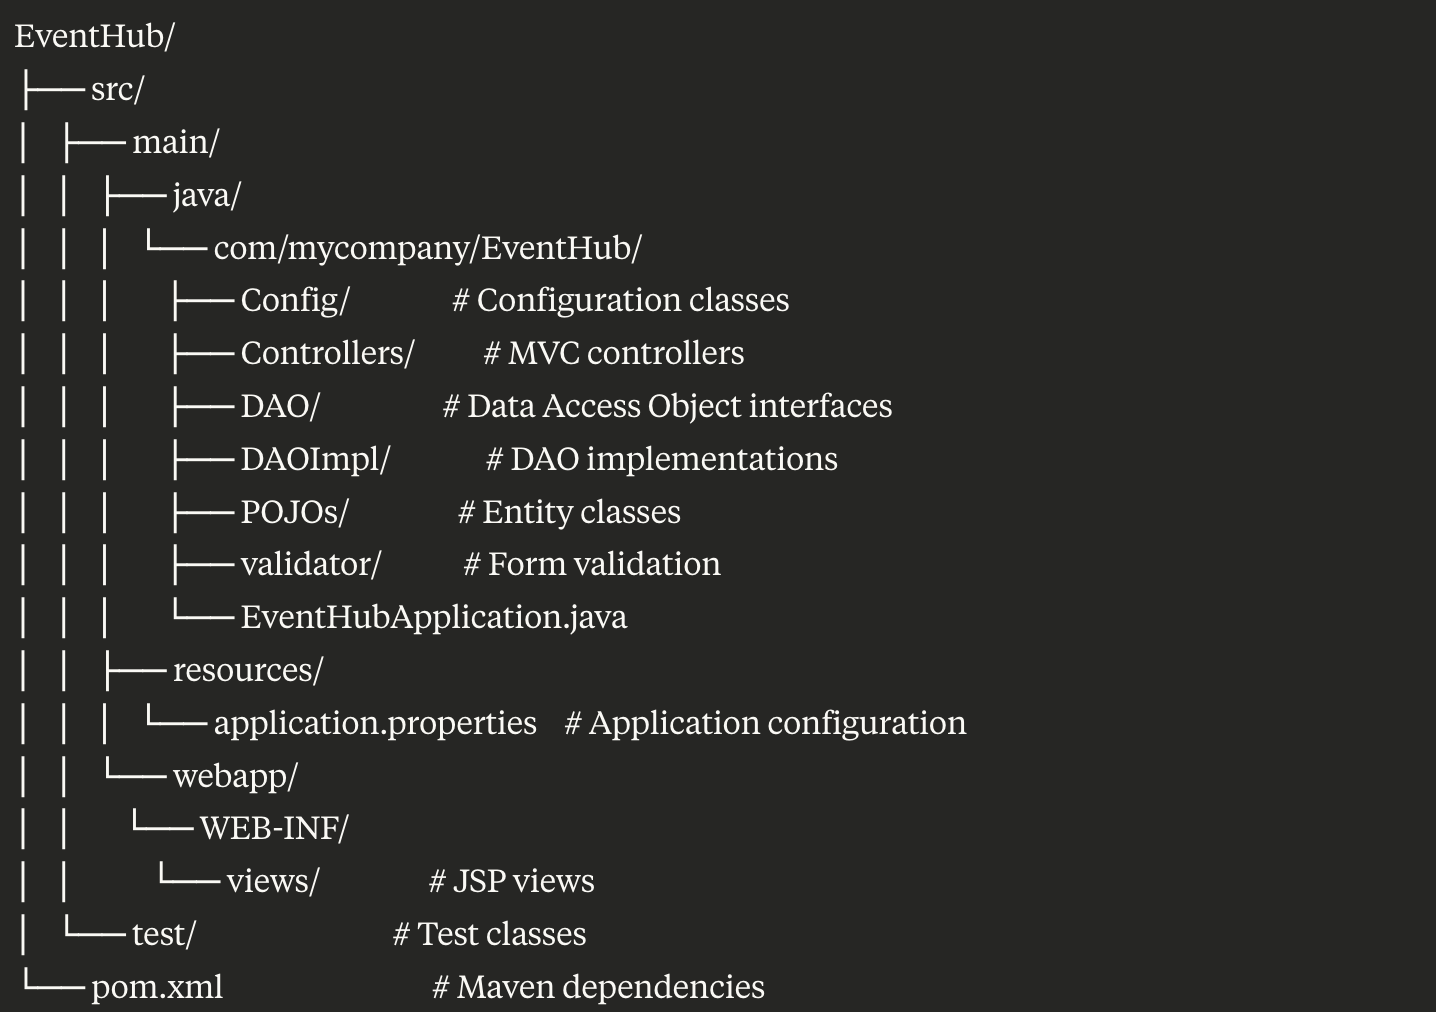
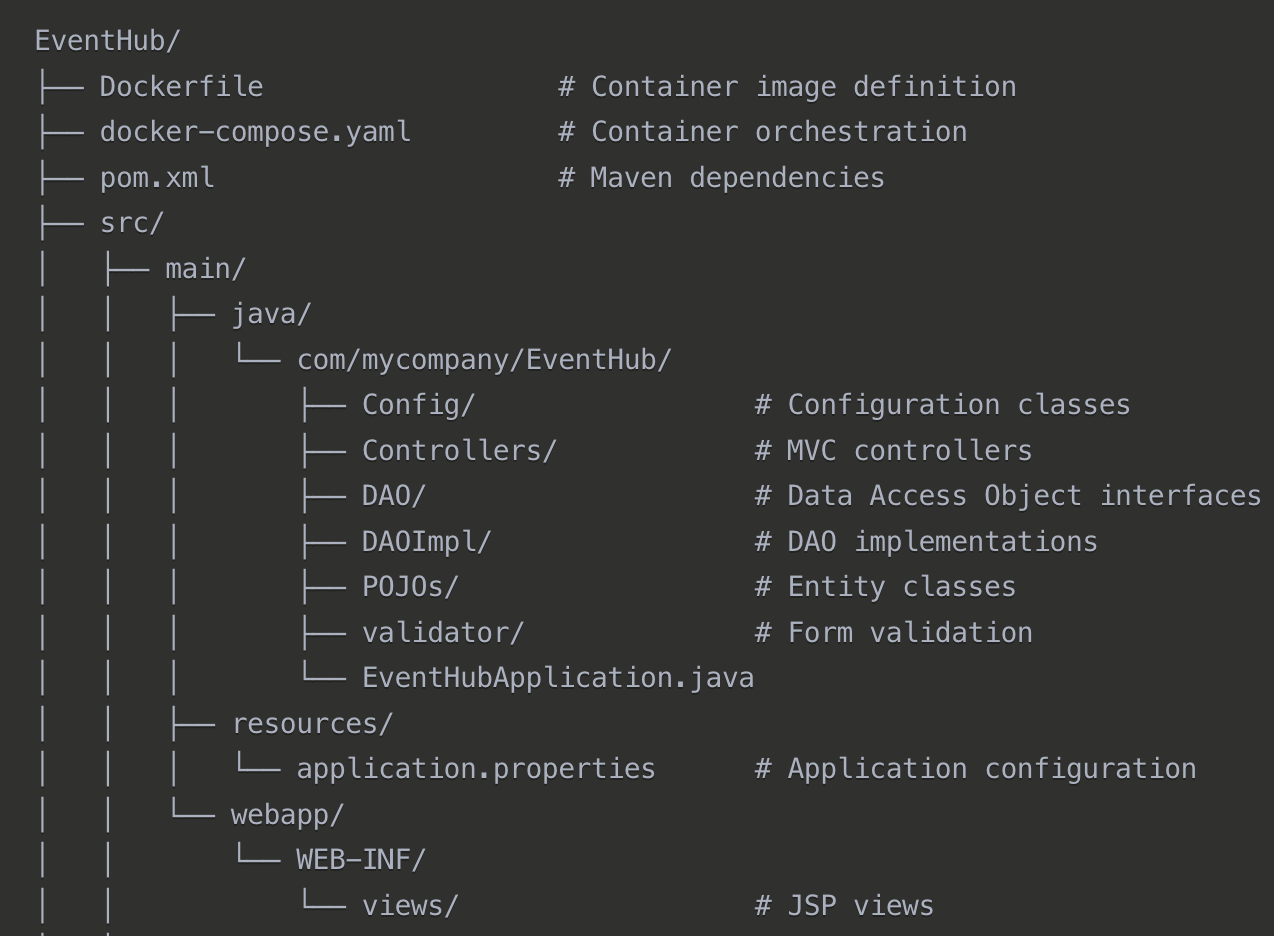
update readme amd images

diff --git a/README.md b/README.md
@@ -1,19 +1,21 @@
-# EventHub - Event Management System
+# EventHub - Containerized Event Management System
 
 ## Table of Contents
 - [Project Overview](#project-overview)
 - [Features](#features)
 - [Technology Stack](#technology-stack)
+- [Deployment Architecture](#deployment-architecture)
 - [Screenshots](#screenshots)
 - [Project Structure](#project-structure)
-- [Hibernate Integration](#hibernate-integration)
+- [ORM Implementation](#orm-implementation)
 - [Getting Started](#getting-started)
 - [Implementation Highlights](#implementation-highlights)
+- [DevOps Practices](#devops-practices)
 - [Future Enhancements](#future-enhancements)
 
 ## Project Overview
 
-EventHub is a comprehensive event management platform developed as a course project. This system allows organizations to create events, users to register for these events, and administrators to maintain the overall platform. Built on the Spring Boot framework with Hibernate ORM, EventHub demonstrates the implementation of a robust web application using Java technologies.
+EventHub is a comprehensive event management platform developed as a course project and enhanced with industry-standard containerization practices. This system allows organizations to create events, users to register for these events, and administrators to maintain the overall platform. Built on the Spring Boot framework with Hibernate ORM, EventHub demonstrates the implementation of a robust, containerized web application using modern Java technologies and DevOps principles.
 
 ## Features
 
@@ -44,17 +46,99 @@ EventHub implements a multi-role authorization system with three types of users:
 - **Registration System**: Customers can register for events with capacity limits
 - **Search & Filter**: Find events by keyword or category
 - **Responsive UI**: Bootstrap-based interface that works across devices
-- **Data Persistence**: Hibernate ORM with SQL Server database
+- **Data Persistence**: Hibernate ORM with MySQL database
 - **Pagination**: Efficient display of event lists with page navigation
+- **Containerization**: Full Docker support for consistent deployment across environments
 
 ## Technology Stack
 
-- **Backend**: Java with Spring Boot framework
+- **Backend**: Java 21 with Spring Boot framework
 - **Frontend**: JSP, HTML, CSS, JavaScript
-- **Database**: Microsoft SQL Server
+- **Database**: MySQL 8.0.36
 - **ORM**: Hibernate
 - **Build Tool**: Maven
+- **Containerization**: Docker & Docker Compose
 - **Design Pattern**: DAO pattern for data access
+- **Time Management**: Configured timezone handling for global deployment
+
+## Deployment Architecture
+
+EventHub utilizes a modern containerized architecture, allowing for seamless deployment across different environments.
+
+```
+┌─────────────────────────────────────┐
+│          Docker Environment         │
+│                                     │
+│  ┌─────────────┐     ┌───────────┐  │
+│  │             │     │           │  │
+│  │  Spring Boot│     │  MySQL    │  │
+│  │  Application│─────│  Database │  │
+│  │  Container  │     │  Container│  │
+│  │             │     │           │  │
+│  └─────────────┘     └───────────┘  │
+│                                     │
+└─────────────────────────────────────┘
+```
+
+### Docker Configuration
+
+The project includes a complete Docker setup for streamlined deployment:
+
+#### Dockerfile
+```dockerfile
+FROM eclipse-temurin:21-jre
+
+WORKDIR /app
+
+COPY target/EventHub-0.0.1-SNAPSHOT.war app.war
+
+ENV TZ=America/New_York
+RUN ln -snf /usr/share/zoneinfo/$TZ /etc/localtime && echo $TZ > /etc/timezone
+
+EXPOSE 8080
+
+ENTRYPOINT ["java", "-jar", "app.war"]
+```
+
+#### Docker Compose
+```yaml
+version: '3.8'
+
+services:
+  app:
+    build: .
+    ports:
+      - "8080:8080"
+    environment:
+      - SPRING_DATASOURCE_URL=jdbc:mysql://db:3306/eventhub?createDatabaseIfNotExist=true&useSSL=false&allowPublicKeyRetrieval=true&serverTimezone=UTC
+      - SPRING_DATASOURCE_USERNAME=root
+      - SPRING_DATASOURCE_PASSWORD=Aa@8573547512
+      - SPRING_DATASOURCE_DRIVER_CLASS_NAME=com.mysql.cj.jdbc.Driver
+      - SPRING_JPA_PROPERTIES_HIBERNATE_DIALECT=org.hibernate.dialect.MySQL8Dialect
+    depends_on:
+      - db
+    networks:
+      - eventhub-network
+
+  db:
+    image: mysql:8.0.36
+    environment:
+      - MYSQL_ROOT_PASSWORD=Aa@8573547512
+      - MYSQL_DATABASE=eventhub
+    ports:
+      - "3306:3306"
+    volumes:
+      - mysql-data:/var/lib/mysql
+    networks:
+      - eventhub-network
+
+networks:
+  eventhub-network:
+    driver: bridge
+
+volumes:
+  mysql-data:
+```
 
 ## Screenshots
 
@@ -188,27 +272,28 @@ The project is organized as follows:
 
 5. **Configuration**: System setup and initialization
    - DataInitializer for sample data generation
+   - Environment-specific property configurations
 
 This structure provides clear separation of concerns, making the codebase maintainable and extensible.
 
-## Hibernate Integration
+## ORM Implementation
 
-EventHub utilizes Hibernate ORM for database operations, providing an abstraction layer between the application and the database. This integration offers several advantages:
+EventHub utilizes Hibernate ORM for database operations, providing an abstraction layer between the application and the database. This implementation supports database portability as demonstrated by the migration from SQL Server to MySQL.
 
 ### Configuration
 
-The application connects to Microsoft SQL Server through Hibernate, configured in `application.properties`:
+The application connects to MySQL through Hibernate, configured in `application.properties`:
 
 ```properties
 # DataSource Configuration
-spring.datasource.url=jdbc:sqlserver://localhost:1433;databaseName=EventHub;encrypt=true;trustServerCertificate=true
-spring.datasource.username=sa
+spring.datasource.url=jdbc:mysql://localhost:3306/eventhub?createDatabaseIfNotExist=true&useSSL=false&allowPublicKeyRetrieval=true&serverTimezone=UTC
+spring.datasource.username=root
 spring.datasource.password=******
-spring.datasource.driver-class-name=com.microsoft.sqlserver.jdbc.SQLServerDriver
+spring.datasource.driver-class-name=com.mysql.cj.jdbc.Driver
 
 # Hibernate Configuration
-spring.jpa.properties.hibernate.dialect=org.hibernate.dialect.SQLServerDialect
-spring.jpa.hibernate.ddl-auto=update
+spring.jpa.properties.hibernate.dialect=org.hibernate.dialect.MySQL8Dialect
+spring.jpa.hibernate.ddl-auto=create-drop
 spring.jpa.hibernate.naming.physical-strategy=org.hibernate.boot.model.naming.PhysicalNamingStrategyStandardImpl
 spring.jpa.show-sql=true
 spring.jpa.properties.hibernate.format_sql=true
@@ -218,11 +303,26 @@ spring.jpa.properties.hibernate.format_sql=true
 
 ### Prerequisites
 
-- JDK 17 or higher
-- Maven
-- Microsoft SQL Server
+- Docker and Docker Compose
+- JDK 21 or higher (for development only)
+- Maven (for development only)
 
 ### Setup Instructions
+
+#### With Docker (Recommended)
+
+1. Clone the repository
+2. Build the application with Maven:
+   ```
+   mvn clean package
+   ```
+3. Launch the containerized application:
+   ```
+   docker-compose up -d
+   ```
+4. Access the application at `http://localhost:8080/eventhub`
+
+#### For Development
 
 1. Clone the repository
 2. Configure database connection in `application.properties`
@@ -257,10 +357,10 @@ This approach offers better maintainability and testability.
 // Example of DAO interface
 public interface EventDAO {
     Event save(Event event);
-    Optional findById(Long id);
-    List findAll();
-    List findByCategory(String category);
-    List searchByKeyword(String keyword);
+    Optional<Event> findById(Long id);
+    List<Event> findAll();
+    List<Event> findByCategory(String category);
+    List<Event> searchByKeyword(String keyword);
     // Other methods...
 }
 ```
@@ -296,9 +396,32 @@ The system demonstrates various JPA relationship mappings:
     joinColumns = @JoinColumn(name = "customer_id"),
     inverseJoinColumns = @JoinColumn(name = "event_id")
 )
-private Set registeredEvents = new HashSet<>();
+private Set<Event> registeredEvents = new HashSet<>();
 ```
 
+## DevOps Practices
+
+This project demonstrates several DevOps principles and best practices:
+
+### Containerization
+
+- **Platform Independence**: Application runs consistently across any environment with Docker support
+- **Isolation**: System dependencies are encapsulated within containers
+- **Resource Management**: Container-specific resource allocation and management
+- **Easy Deployment**: Single command deployment with docker-compose
+
+### Database Migration
+
+- **Database Portability**: Successfully migrated from Microsoft SQL Server to MySQL
+- **Dialect Configuration**: Automated adjustment of SQL dialect through Hibernate
+- **Schema Management**: Auto-generating database schema regardless of database provider
+
+### Environment Configuration
+
+- **Externalized Configuration**: Environment variables for sensitive information
+- **Service Discovery**: Container networking with automatic service discovery
+- **Timezone Management**: Proper handling of timezone configuration
+- **Volume Persistence**: Database data persists through container restarts
 
 ## Future Enhancements
 
@@ -308,6 +431,7 @@ Several areas for future development have been identified:
 * Implementation of Spring Security for more robust authentication
 * Password encryption with bcrypt or similar algorithms
 * Role-based access control with more granular permissions
+* HTTPS configuration with SSL certificates
 
 ### Feature Expansions
 * Email notifications for event reminders and updates
@@ -320,8 +444,9 @@ Several areas for future development have been identified:
 * RESTful API for mobile application integration
 * Implementation of caching for frequently accessed data
 * Comprehensive unit and integration test suite
-* Deployment to cloud platforms (AWS, Azure, etc.)
-* Performance optimization for higher scalability
+* CI/CD pipeline integration (GitHub Actions, Jenkins)
+* Infrastructure as Code using Terraform or similar tools
+* Kubernetes orchestration for enhanced scalability
 
 ### User Experience
 * Advanced search filters (location, date range, price)
